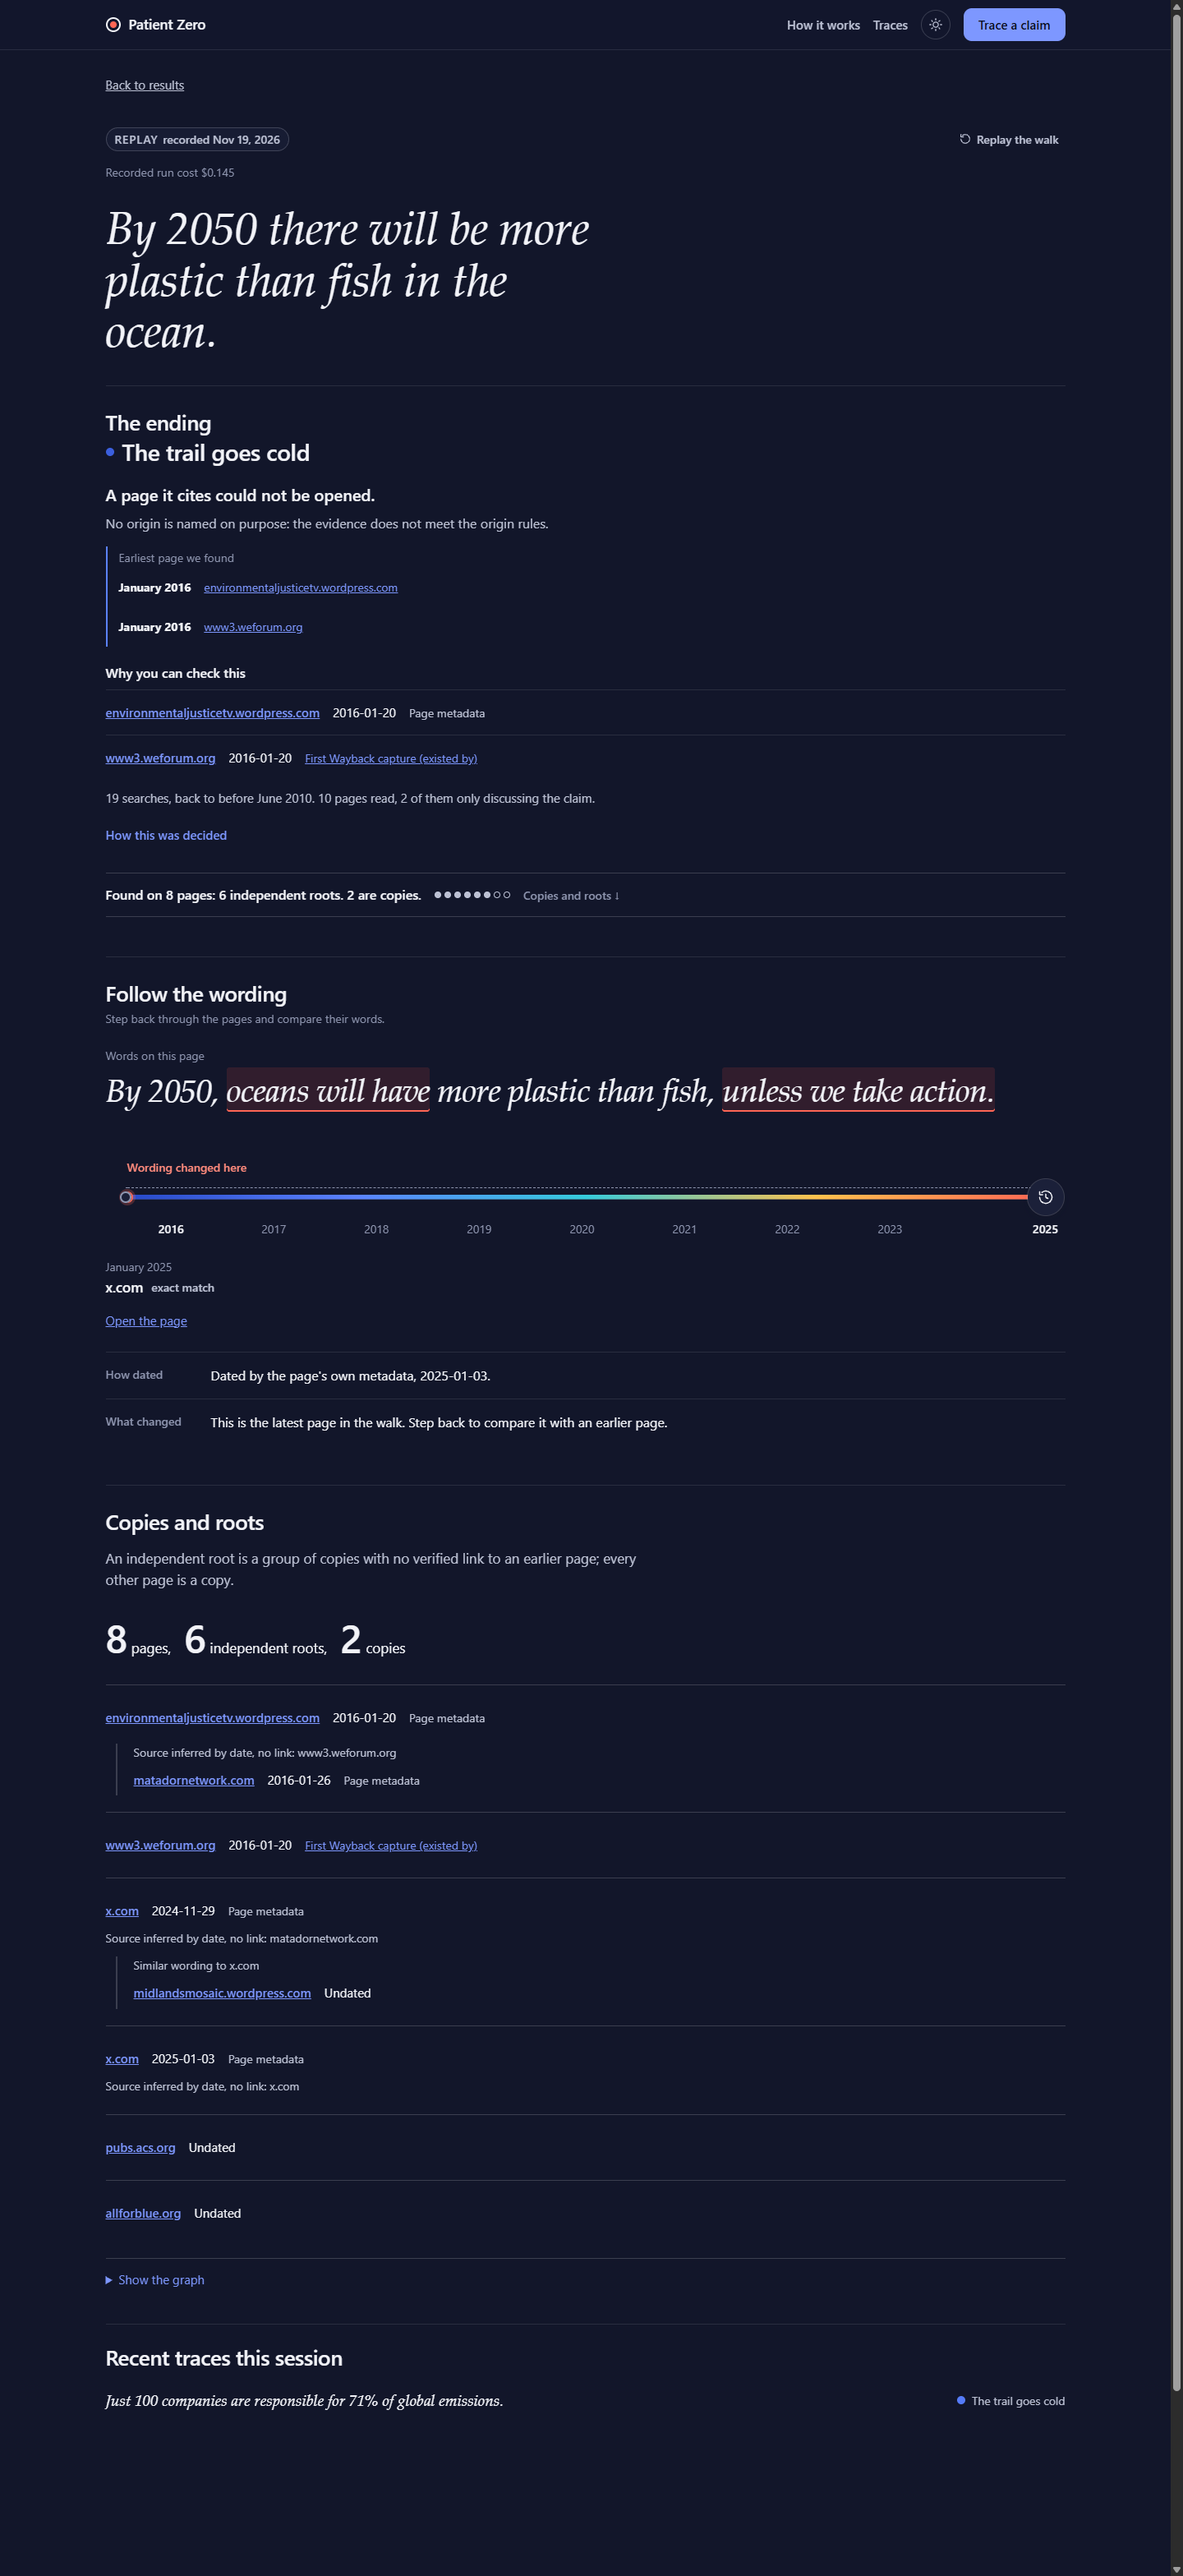
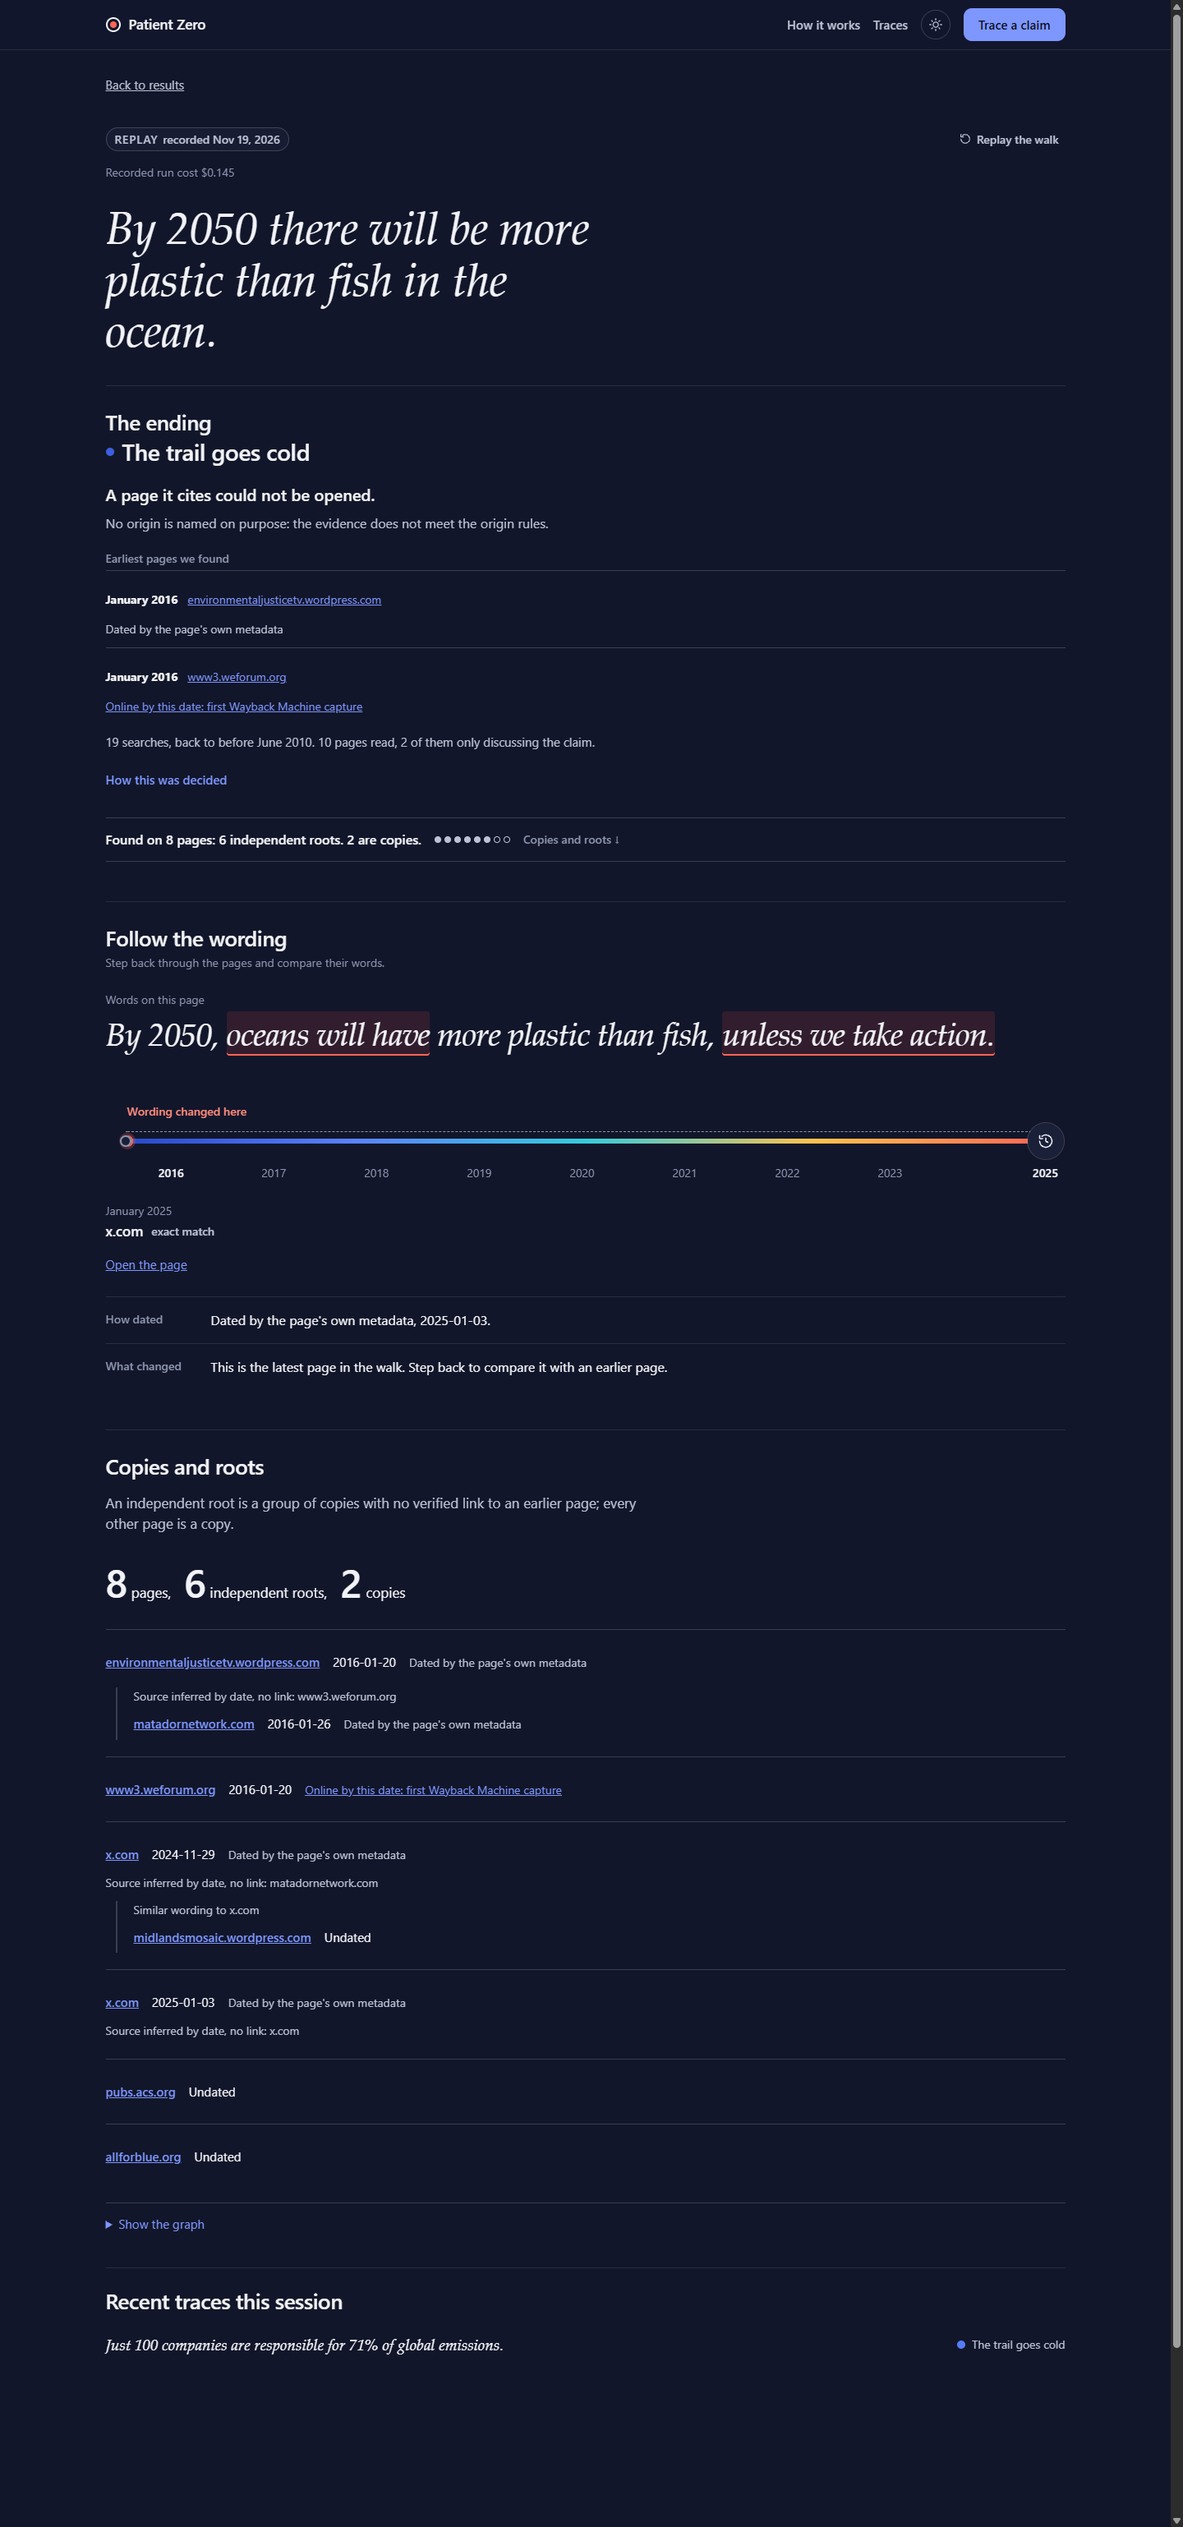
Trace view: open on the finished state; one earliest pages list with how each date is proven (#259 items 1, 2) (#275)
* Trace view: open on the finished state (replay only on request); one earliest pages list with how each date is proven; plain date proof labels

* Screenshots: dev-10 trace view after the last-mile fixes

diff --git a/apps/web/src/components/StopCard.tsx b/apps/web/src/components/StopCard.tsx
@@ -1,5 +1,4 @@
 import type { Trace } from "pz/schema";
-import { PageReceipt } from "./Roots.tsx";
 import { pageReceipt, uncheckedParents } from "../model/roots.ts";
 import { cleanQuote } from "../model/quoteClean.ts";
 import { sampleRow } from "../model/sampleRow.ts";
@@ -18,19 +17,21 @@ export function StopCard({ trace }: { trace: Trace }) {
       <h3 className="stop-title"><span className={tone ? "ramp-dot" : "ramp-dot empty"} style={{ ["--tone" as string]: tone ?? "var(--ink-3)" }} aria-hidden="true" />{card.title}</h3>
       <p className="stop-sentence">{card.sentence}</p>
       {trace.decision.state !== "ORIGIN_FOUND" && <p className="stop-restraint">No origin is named on purpose: the evidence does not meet the origin rules.</p>}
-      <div className="stop-earliest"><span className="meta">Earliest page we found</span>
-        {earliest.length ? earliest.map(node => <p className="earliest-row" key={node.id}>
-          <strong>{node.date.value ? month(node.date.value, node.date.precision) : "Undated"}</strong>
-          <a href={node.url} target="_blank" rel="noreferrer">{node.domain}</a>
-        </p>) : <p>No dated page with the claim.</p>}
-      </div>
-      {earliest.length > 0 && <section className="check-strip" aria-label="Why you can check this">
-        <h3>Why you can check this</h3>
-        {earliest.map(node => <div className="check-row" key={node.id}>
-          <div className="root-page"><PageReceipt page={pageReceipt(trace, node)} /></div>
-          {uncheckedParents(node).map(parent => <p key={parent.url}>Not checked: cited page <a href={parent.url} target="_blank" rel="noreferrer">{parent.host}</a> could not be opened.</p>)}
-        </div>)}
-      </section>}
+      {/* One list: each earliest page with its date, how that date is proven and what could not be checked (#259). */}
+      <section className="stop-earliest" aria-label="Earliest pages we found, and why you can check them">
+        <h3 className="meta">{earliest.length > 1 ? "Earliest pages we found" : "Earliest page we found"}</h3>
+        {earliest.length ? earliest.map(node => {
+          const proof = pageReceipt(trace, node).evidence;
+          return <div className="earliest-row" key={node.id}>
+            <p className="earliest-line">
+              <strong>{node.date.value ? month(node.date.value, node.date.precision) : "Undated"}</strong>
+              <a href={node.url} target="_blank" rel="noreferrer">{node.domain}</a>
+            </p>
+            {node.date.value && <p className="earliest-proof">{proof.url ? <a href={proof.url} target="_blank" rel="noreferrer">{proof.label}</a> : proof.label}</p>}
+            {uncheckedParents(node).map(parent => <p className="earliest-proof" key={parent.url}>Not checked: it cites <a href={parent.url} target="_blank" rel="noreferrer">{parent.host}</a>, which could not be opened.</p>)}
+          </div>;
+        }) : <p>No dated page with the claim.</p>}
+      </section>
       {card.origin && (
         <blockquote className="origin-quote" cite={card.origin.url}>
           <p className="quote">{cleanQuote(card.origin.quote, trace.claim.text)}</p>

diff --git a/apps/web/src/components/WalkReplay.tsx b/apps/web/src/components/WalkReplay.tsx
@@ -1,6 +1,6 @@
 import { useCallback, useEffect, useLayoutEffect, useMemo, useRef, useState } from "react";
 import type { Trace } from "pz/schema";
-import { afterTick, autoplays, lineMs, railHead, replayFrame, replayLines, startPhase, type ReplayLine } from "../model/replay.ts";
+import { afterTick, lineMs, railHead, replayFrame, replayLines, startPhase, type ReplayLine } from "../model/replay.ts";
 
 export type Replay = {
   phase: "lines" | "walk" | "done";
@@ -31,7 +31,7 @@ const markSeen = (id: string) => {
 };
 
 // The recorded walk, played back once per trace per visit: the log lines appear one by one and each page lands on the
-// band, then the handle walks from today to the earliest stop. Skip jumps to the end. Reduced motion never autoplays.
+// band, then the handle walks from today to the earliest stop. Skip jumps to the end. It runs only when the visitor asks.
 // The first render is always the finished trace, so a page without scripts, or a test, shows everything.
 export function useReplay(trace: Trace, stopCount: number, reducedMotion: boolean, walkTo: (position: number) => void, settle: (i: number) => void): Replay {
   const lines = useMemo(() => replayLines(trace), [trace]);
@@ -61,11 +61,10 @@ export function useReplay(trace: Trace, stopCount: number, reducedMotion: boolea
   }, [walkTo, reducedMotion, finish]);
 
   useLayoutEffect(() => {
-    if (trace.mode !== "LIVE" && autoplays(seen(trace.id), reducedMotion)) start();
-    else {
-      setShown(lines.length);
-      setPhase("done");
-    }
+    // A trace opens on its finished state, so every section has its data at first sight (#259 review).
+    // The walk replays only when the visitor asks ("Replay the walk").
+    setShown(lines.length);
+    setPhase("done");
     return () => cancelAnimationFrame(raf.current);
     // Once per trace: a change of trace starts its own replay.
   }, [trace.id]);

diff --git a/apps/web/src/model/receipt.ts b/apps/web/src/model/receipt.ts
@@ -20,10 +20,11 @@ export function dateEvidence(node: Node, span?: Span, short = false): { label: s
   const caveat = date.conflictingDate ? " Date evidence conflicts." : "";
   if (short) {
     const labels: Record<Node["date"]["source"], string> = {
-      metadata: "Page metadata", byline: "Byline", wayback_first_capture: "First Wayback capture (existed by)",
-      tavily: "Search result", registry_pubmed: "PubMed registry", registry_pmc: "PubMed Central registry", registry_crossref: "Crossref registry",
+      metadata: "Dated by the page's own metadata", byline: "Dated by the page's byline",
+      wayback_first_capture: "Online by this date: first Wayback Machine capture",
+      tavily: "Date from the search result", registry_pubmed: "Dated by PubMed", registry_pmc: "Dated by PubMed Central", registry_crossref: "Dated by Crossref",
     };
-    return { label: `${date.kind === "unconfirmed" ? "Unconfirmed: " : ""}${labels[date.source]}${caveat}`, url };
+    return { label: `${labels[date.source]}${date.kind === "unconfirmed" ? " (unconfirmed)" : ""}${caveat}`, url };
   }
   return { label: `${qualifier} ${sources[date.source]}, ${datePhrase(date.value, date.precision)}.${archive ? " Archived by this date; publication date is not established." : ""}${caveat}`, url };
 }

diff --git a/apps/web/src/styles/app.css b/apps/web/src/styles/app.css
@@ -87,3 +87,14 @@ body { isolation: isolate; }
    use hairlines rather than a second rounded box. */
 .claim-note .untraced { padding: 16px 0 4px; border: 0; border-top: 1px solid var(--line-2); border-radius: 0; background: none; box-shadow: none; }
 .claim-note .live-failure { padding-left: 14px; border-left: 2px solid var(--line-2); border-top: 0; }
+
+/* The merged earliest-pages list in The ending: one row per page, date and host on one line, the proof under it. */
+.trace-page .stop-earliest { margin-top: 20px; padding-left: 0; border-left: 0; }
+.trace-page .stop-earliest .earliest-row { display: block; min-height: 0; }
+.trace-page .stop-earliest .earliest-row a { display: inline; min-height: 0; padding: 0; }
+.trace-page .stop-earliest .earliest-line a { display: inline-flex; min-height: 44px; align-items: center; }
+.trace-page .stop-earliest h3 { margin: 0 0 4px; font-weight: 500; }
+.trace-page .earliest-row { padding: 12px 0; border-top: 1px solid var(--line-2); }
+.trace-page .earliest-row p { margin: 0; }
+.trace-page .earliest-line { display: flex; flex-wrap: wrap; gap: 4px 12px; align-items: baseline; overflow-wrap: anywhere; }
+.trace-page .earliest-proof { margin-top: 4px !important; color: var(--ink-2); font-size: 14px; overflow-wrap: anywhere; }

diff --git a/apps/web/src/model/roots.test.ts b/apps/web/src/model/roots.test.ts
@@ -28,7 +28,7 @@ describe("root receipts", () => {
   it("keeps stored date precision and real archive links", () => {
     const node = dev.nodes.find(n => n.date.source === "wayback_first_capture" && n.date.value && dev.spans.some(s => s.nodeId === n.id && s.waybackUrl))!;
     const receipt = pageReceipt(dev, node);
-    expect(receipt.evidence.label).toContain("First Wayback capture");
+    expect(receipt.evidence.label).toContain("first Wayback Machine capture");
     expect(receipt.evidence.url).toBe(dev.spans.find(s => s.nodeId === node.id && s.waybackUrl)!.waybackUrl);
     expect(pageReceipt(dev, { ...node, date: { ...node.date, precision: "year" } }).date).toBe(node.date.value!.slice(0, 4));
   });

diff --git a/apps/web/src/components/TraceView.test.tsx b/apps/web/src/components/TraceView.test.tsx
@@ -22,7 +22,7 @@ describe("TraceView", () => {
     expect(positions.every(position => position >= 0)).toBe(true);
     expect(positions).toEqual([...positions].sort((a, b) => a - b));
     expect(html.match(/aria-label="How this trace ended"/g)).toHaveLength(1);
-    expect(html).toContain("Earliest page we found");
+    expect(html).toMatch(/Earliest pages? we found/);
     expect(html).toContain('class="ramp-dot"');
   });
 
